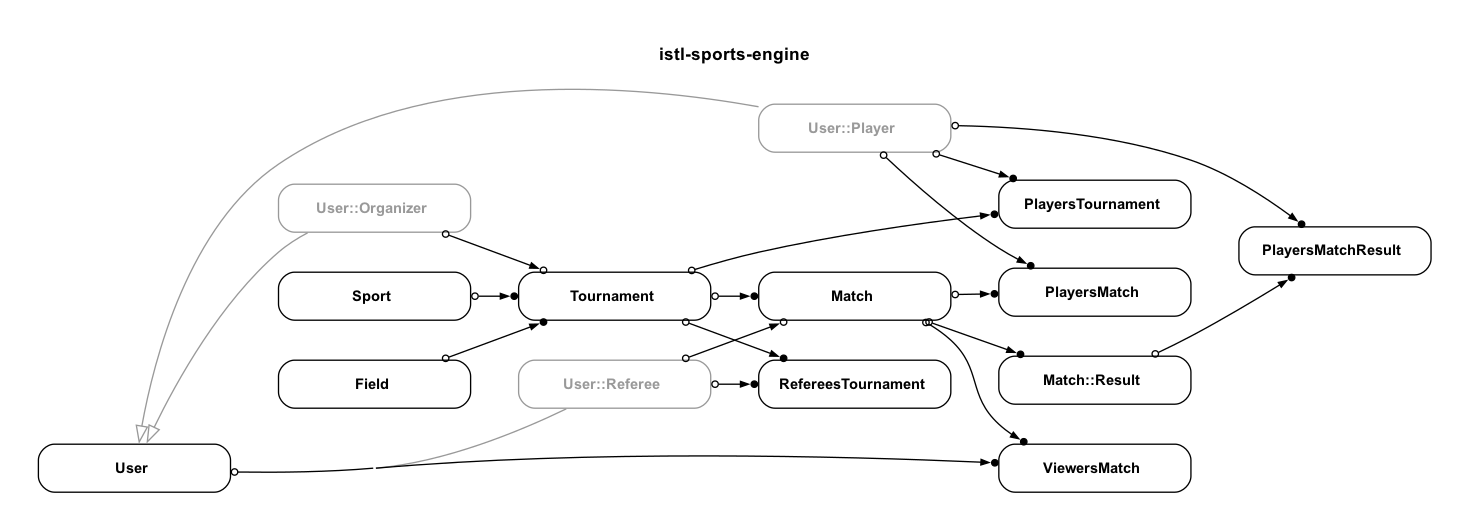
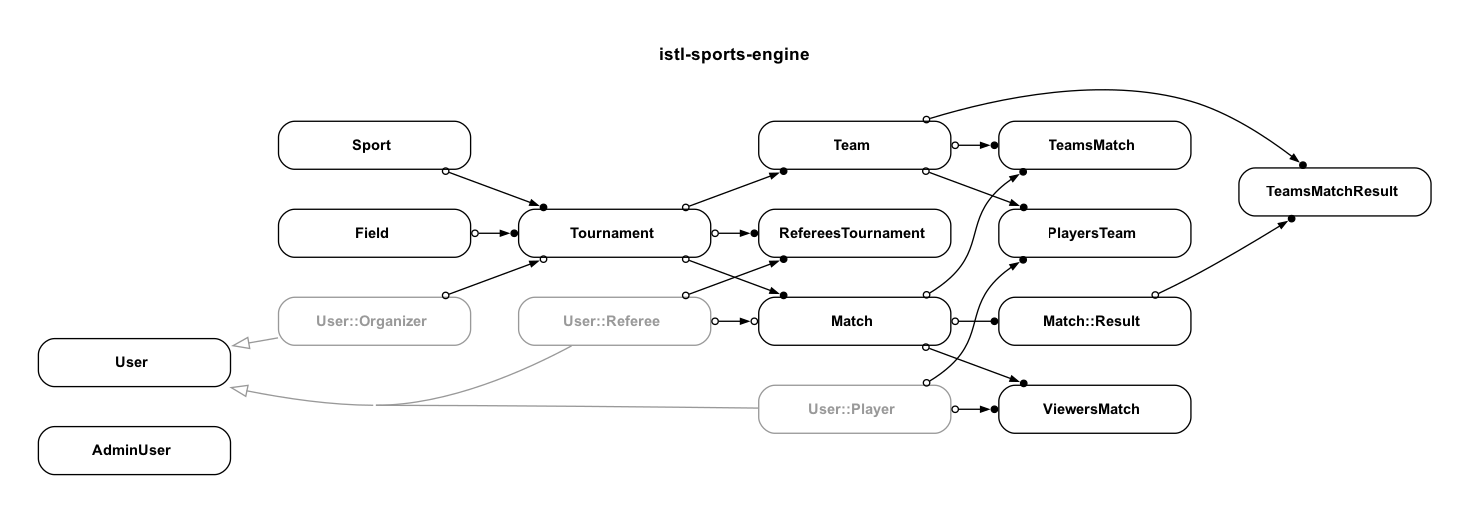
models: teams are now linked to matches

diff --git a/db/schema.rb b/db/schema.rb
@@ -10,7 +10,7 @@
 #
 # It's strongly recommended that you check this file into your version control system.
 
-ActiveRecord::Schema[8.1].define(version: 2025_12_31_114840) do
+ActiveRecord::Schema[8.1].define(version: 2025_12_31_133302) do
   # These are extensions that must be enabled in order to support this database
   enable_extension "pg_catalog.plpgsql"
 
@@ -68,25 +68,6 @@ ActiveRecord::Schema[8.1].define(version: 2025_12_31_114840) do
     t.index ["tournament_id"], name: "index_matches_on_tournament_id"
   end
 
-  create_table "players_match_results", force: :cascade do |t|
-    t.datetime "created_at", null: false
-    t.bigint "match_result_id"
-    t.bigint "player_id"
-    t.integer "player_status", null: false
-    t.datetime "updated_at", null: false
-    t.index ["match_result_id"], name: "index_players_match_results_on_match_result_id"
-    t.index ["player_id"], name: "index_players_match_results_on_player_id"
-  end
-
-  create_table "players_matches", force: :cascade do |t|
-    t.datetime "created_at", null: false
-    t.bigint "match_id"
-    t.bigint "player_id"
-    t.datetime "updated_at", null: false
-    t.index ["match_id"], name: "index_players_matches_on_match_id"
-    t.index ["player_id"], name: "index_players_matches_on_player_id"
-  end
-
   create_table "players_teams", force: :cascade do |t|
     t.datetime "created_at", null: false
     t.bigint "player_id"
@@ -119,6 +100,25 @@ ActiveRecord::Schema[8.1].define(version: 2025_12_31_114840) do
     t.bigint "tournament_id"
     t.datetime "updated_at", null: false
     t.index ["tournament_id"], name: "index_teams_on_tournament_id"
+  end
+
+  create_table "teams_match_results", force: :cascade do |t|
+    t.datetime "created_at", null: false
+    t.bigint "match_result_id"
+    t.bigint "team_id"
+    t.integer "team_status", null: false
+    t.datetime "updated_at", null: false
+    t.index ["match_result_id"], name: "index_teams_match_results_on_match_result_id"
+    t.index ["team_id"], name: "index_teams_match_results_on_team_id"
+  end
+
+  create_table "teams_matches", force: :cascade do |t|
+    t.datetime "created_at", null: false
+    t.bigint "match_id"
+    t.bigint "team_id"
+    t.datetime "updated_at", null: false
+    t.index ["match_id"], name: "index_teams_matches_on_match_id"
+    t.index ["team_id"], name: "index_teams_matches_on_team_id"
   end
 
   create_table "tournaments", force: :cascade do |t|
@@ -182,15 +182,15 @@ ActiveRecord::Schema[8.1].define(version: 2025_12_31_114840) do
   add_foreign_key "match_results", "matches"
   add_foreign_key "matches", "tournaments"
   add_foreign_key "matches", "users", column: "referee_id"
-  add_foreign_key "players_match_results", "match_results"
-  add_foreign_key "players_match_results", "users", column: "player_id"
-  add_foreign_key "players_matches", "matches"
-  add_foreign_key "players_matches", "users", column: "player_id"
   add_foreign_key "players_teams", "teams"
   add_foreign_key "players_teams", "users", column: "player_id"
   add_foreign_key "referees_tournaments", "tournaments"
   add_foreign_key "referees_tournaments", "users", column: "referee_id"
   add_foreign_key "teams", "tournaments"
+  add_foreign_key "teams_match_results", "match_results"
+  add_foreign_key "teams_match_results", "teams"
+  add_foreign_key "teams_matches", "matches"
+  add_foreign_key "teams_matches", "teams"
   add_foreign_key "tournaments", "fields"
   add_foreign_key "tournaments", "sports"
   add_foreign_key "tournaments", "users", column: "organizer_id"

diff --git a/test/models/user/player_test.rb b/test/models/user/player_test.rb
@@ -55,52 +55,34 @@ class User::PlayerTest < ActiveSupport::TestCase
       end
   end
 
-  test 'match results' do
-    create(:match_result)
-      .then do |match_result|
-        create(:user_player)
-          .tap { it.players_match_results << build(:players_match_result, match_result: match_result) }
-          .tap(&:save!)
-          .then do |player|
-            assert_includes player.match_results, match_result
-            assert_includes match_result.players, player
-          end
-      end
-  end
-
-  test 'matches' do
-    create(:match)
-      .then do |match|
-        create(:user_player)
-          .tap { it.matches << match }
-          .tap(&:save!)
-          .then do |player|
-            assert_includes player.matches, match
-            assert_includes match.players, player
-          end
-      end
-  end
-
   test 'won and lost matches' do
-    { winner: :won_by, loser: :lost_by }
-      .each do |status, scope|
-        create(:match_result)
-          .then do |match_result|
-            build(:players_match_result, match_result: match_result, player_status: status)
-              .then do |match|
-                create(:user_player)
-                  .tap { it.players_match_results << match }
-                  .tap(&:save!)
-                  .then do |player|
-                    Match::Result
-                      .public_send(scope, player)
-                      .map(&:players)
-                      .flatten
-                      .then { |players| assert_includes players, player }
-                  end
-              end
-          end
-      end
+    ensure_inclusion = proc do |status|
+      status => { scope:, status: }
+
+      # Initialize a base match record using FactoryBot
+      match = create(:match)
+
+      # Create a team, associate it with the match, and persist it to the database
+      team = create(:team)
+               .tap { it.matches << match }
+               .tap(&:save!)
+
+      # Create a player, assign them to the team, and save the relationship
+      player = create(:user_player)
+                 .tap { it.teams << team }
+                 .tap(&:save!)
+
+      # Generate a match result and link the specific team to it with a :winner status
+      result = create(:match_result, match: match)
+                 .tap { it.teams_match_results << build(:teams_match_result, team: team, team_status: status) }
+                 .tap(&:save!)
+
+      # Verify that the query scope "won_by" correctly identifies this result for the player
+      assert_includes Match::Result.public_send(scope, player), result
+    end
+
+    ensure_inclusion.call scope: :won_by, status: :winner
+    ensure_inclusion.call scope: :lost_by, status: :loser
   end
 
   test 'viewed matches' do

diff --git a/test/models/team_test.rb b/test/models/team_test.rb
@@ -14,12 +14,38 @@
 #  index_teams_on_tournament_id  (tournament_id)
 #
 
-require "test_helper"
+require 'test_helper'
 
 class TeamTest < ActiveSupport::TestCase
   test 'creation' do
     assert_nothing_raised do
       create :team
     end
+  end
+
+  test 'matches' do
+    create(:match)
+      .then do |match|
+        create(:team)
+          .tap { it.matches << match }
+          .tap(&:save!)
+          .then do |team|
+            assert_includes team.matches, match
+            assert_includes match.teams, team
+          end
+      end
+  end
+
+  test 'match results' do
+    create(:match_result)
+      .then do |match_result|
+        create(:team)
+          .tap { it.teams_match_results << build(:teams_match_result, match_result: match_result) }
+          .tap(&:save!)
+          .then do |team|
+            assert_includes team.match_results, match_result
+            assert_includes match_result.teams, team
+          end
+      end
   end
 end

diff --git a/app/models/match/result.rb b/app/models/match/result.rb
@@ -18,14 +18,14 @@ class Match
   class Result < ApplicationRecord
     belongs_to :match
 
-    has_many :players_match_results, dependent: :destroy, inverse_of: :match_result
-    has_many :players, through: :players_match_results
+    has_many :teams_match_results, dependent: :destroy, inverse_of: :match_result
+    has_many :teams, through: :teams_match_results
 
     { won_by: :winner, lost_by: :loser }.each do |key, value|
       scope key, lambda { |player|
-        joins(:players_match_results)
-          .where(players_match_results: { player: player })
-          .where(players_match_results: { player_status: value })
+        joins(teams_match_results: { team: :players })
+          .where(players: { id: player.id })
+          .where(teams_match_results: { team_status: value })
       }
     end
   end

diff --git a/app/models/teams_match_result.rb b/app/models/teams_match_result.rb
@@ -1,0 +1,29 @@
+# frozen_string_literal: true
+
+# == Schema Information
+#
+# Table name: teams_match_results
+#
+#  id              :integer          not null, primary key
+#  team_id         :integer
+#  match_result_id :integer
+#  team_status     :integer          not null
+#  created_at      :datetime         not null
+#  updated_at      :datetime         not null
+#
+# Indexes
+#
+#  index_teams_match_results_on_match_result_id  (match_result_id)
+#  index_teams_match_results_on_team_id          (team_id)
+#
+class TeamsMatchResult < ApplicationRecord
+  belongs_to :match_result, class_name: 'Match::Result', inverse_of: :teams_match_results
+  belongs_to :team
+
+  enum :team_status, {
+    winner: 0,
+    loser:  1
+  }
+
+  validates :team_status, presence: true
+end

diff --git a/test/factories/teams_match_results.rb b/test/factories/teams_match_results.rb
@@ -1,0 +1,25 @@
+# == Schema Information
+#
+# Table name: teams_match_results
+#
+#  id              :integer          not null, primary key
+#  team_id         :integer
+#  match_result_id :integer
+#  team_status     :integer          not null
+#  created_at      :datetime         not null
+#  updated_at      :datetime         not null
+#
+# Indexes
+#
+#  index_teams_match_results_on_match_result_id  (match_result_id)
+#  index_teams_match_results_on_team_id          (team_id)
+#
+
+FactoryBot.define do
+  factory :teams_match_result do
+    association :match_result, factory: :match_result
+    association :team, factory: :team
+
+    team_status { TeamsMatchResult.team_statuses.keys.sample }
+  end
+end

diff --git a/app/models/teams_match.rb b/app/models/teams_match.rb
@@ -2,20 +2,20 @@
 
 # == Schema Information
 #
-# Table name: players_matches
+# Table name: teams_matches
 #
 #  id         :integer          not null, primary key
-#  player_id  :integer
+#  team_id    :integer
 #  match_id   :integer
 #  created_at :datetime         not null
 #  updated_at :datetime         not null
 #
 # Indexes
 #
-#  index_players_matches_on_match_id   (match_id)
-#  index_players_matches_on_player_id  (player_id)
+#  index_teams_matches_on_match_id  (match_id)
+#  index_teams_matches_on_team_id   (team_id)
 #
-class PlayersMatch < ApplicationRecord
-  belongs_to :player, class_name: 'User::Player'
+class TeamsMatch < ApplicationRecord
+  belongs_to :team
   belongs_to :match
 end

diff --git a/test/models/teams_match_result_test.rb b/test/models/teams_match_result_test.rb
@@ -1,0 +1,26 @@
+# == Schema Information
+#
+# Table name: teams_match_results
+#
+#  id              :integer          not null, primary key
+#  team_id         :integer
+#  match_result_id :integer
+#  team_status     :integer          not null
+#  created_at      :datetime         not null
+#  updated_at      :datetime         not null
+#
+# Indexes
+#
+#  index_teams_match_results_on_match_result_id  (match_result_id)
+#  index_teams_match_results_on_team_id          (team_id)
+#
+
+require 'test_helper'
+
+class TeamsMatchResultTest < ActiveSupport::TestCase
+  test 'creation' do
+    assert_nothing_raised do
+      create :teams_match_result
+    end
+  end
+end

diff --git a/app/models/user/player.rb b/app/models/user/player.rb
@@ -40,12 +40,6 @@ class User
     has_many :players_teams, dependent: :destroy
     has_many :teams, through: :players_teams
 
-    has_many :players_matches, dependent: :destroy
-    has_many :matches, through: :players_matches
-
-    has_many :players_match_results, dependent: :destroy
-    has_many :match_results, through: :players_match_results
-
     has_many :viewers_matches, dependent: :destroy, inverse_of: :viewer
     has_many :viewed_matches, through: :viewers_matches, source: :match
   end

diff --git a/app/models/team.rb b/app/models/team.rb
@@ -21,6 +21,12 @@ class Team < ApplicationRecord
   has_many :players_teams, dependent: :destroy
   has_many :players, through: :players_teams
 
+  has_many :teams_matches, dependent: :destroy
+  has_many :matches, through: :teams_matches
+
+  has_many :teams_match_results, dependent: :destroy
+  has_many :match_results, through: :teams_match_results
+
   enum :composition, {
     single: 0,
     double: 1,

diff --git a/app/models/match.rb b/app/models/match.rb
@@ -32,6 +32,6 @@ class Match < ApplicationRecord
   has_many :viewers_matches, dependent: :destroy
   has_many :viewers, through: :viewers_matches
 
-  has_many :players_matches, dependent: :destroy
-  has_many :players, through: :players_matches
+  has_many :teams_matches, dependent: :destroy
+  has_many :teams, through: :teams_matches
 end

diff --git a/db/migrate/20251231133302_drop_players_matche_results.rb b/db/migrate/20251231133302_drop_players_matche_results.rb
@@ -1,0 +1,10 @@
+class DropPlayersMatcheResults < ActiveRecord::Migration[8.1]
+  def change
+    drop_table :players_match_results do |t|
+      t.references :player, foreign_key: { to_table: :users }
+      t.references :match_result, foreign_key: true
+      t.integer :player_status, null: false
+      t.timestamps
+    end
+  end
+end
